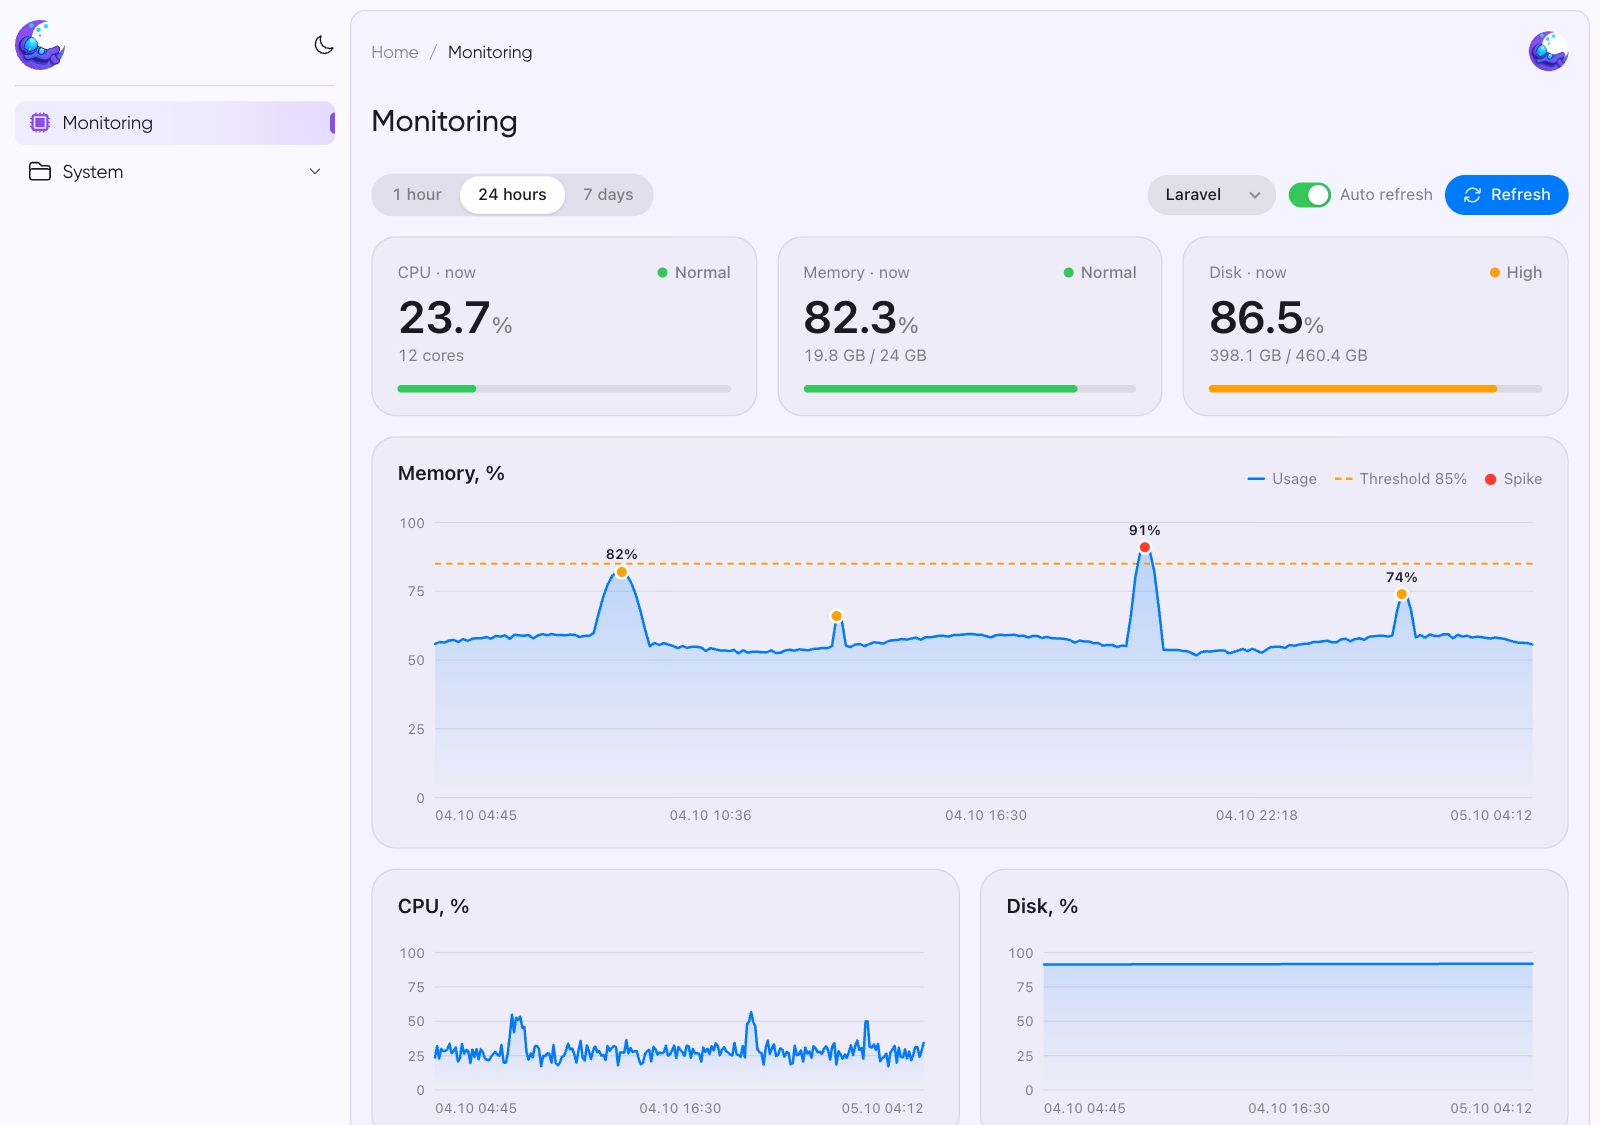
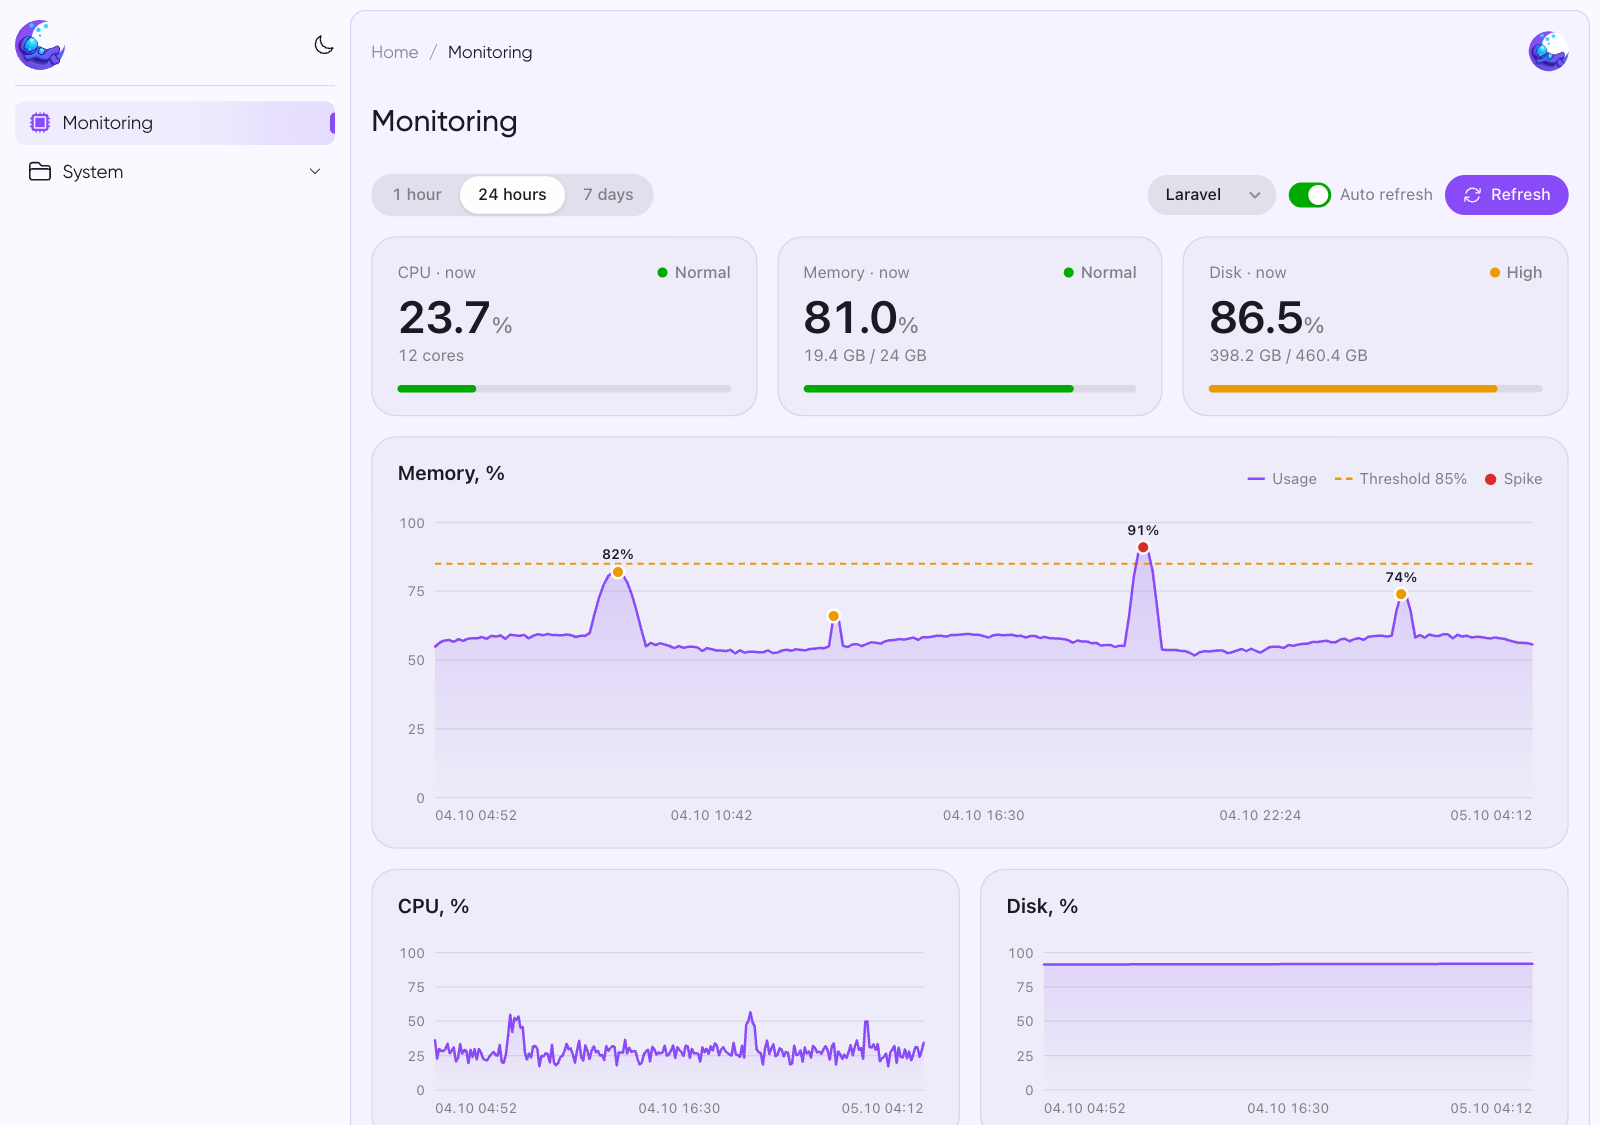
Follow MoonShine theme colors; 1.4.1

diff --git a/resources/views/partials/styles.blade.php b/resources/views/partials/styles.blade.php
@@ -1,7 +1,12 @@
 @once
 <style>
     .msm {
-        --msm-blue: #007aff; --msm-green: #34c759; --msm-orange: #ff9f0a; --msm-red: #ff3b30;
+        /* Цвета берутся из темы MoonShine: 4.x — --ms-cm-*, 3.x — RGB-тройки вида --primary: 120, 67, 233 */
+        --msm-blue: var(--ms-cm-primary, rgb(var(--primary, 0, 122, 255)));
+        --msm-on-blue: var(--ms-cm-primary-text, #fff);
+        --msm-green: var(--ms-cm-success, rgb(var(--success-bg, 52, 199, 89)));
+        --msm-orange: var(--ms-cm-warning, rgb(var(--warning-bg, 255, 159, 10)));
+        --msm-red: var(--ms-cm-error, rgb(var(--error, 255, 59, 48)));
         --msm-muted: rgb(120 120 128 / 0.95); --msm-line: rgb(120 120 128 / 0.18);
         --msm-track: rgb(120 120 128 / 0.16); --msm-card: rgb(120 120 128 / 0.06);
         --msm-tip: rgb(255 255 255 / 0.96); --msm-tip-ink: #1c1c1e;
@@ -9,12 +14,12 @@
         font-family: -apple-system, BlinkMacSystemFont, "SF Pro Text", Inter, system-ui, sans-serif;
         font-variant-numeric: tabular-nums;
     }
-    .dark .msm { --msm-blue: #0a84ff; --msm-green: #30d158; --msm-orange: #ff9f0a; --msm-red: #ff453a; --msm-tip: rgb(44 44 46 / 0.96); --msm-tip-ink: #f2f2f7; }
+    .dark .msm { --msm-tip: rgb(44 44 46 / 0.96); --msm-tip-ink: #f2f2f7; }
     .msm-head { display: flex; flex-wrap: wrap; align-items: center; justify-content: space-between; gap: .75rem; }
     .msm-segmented { display: inline-flex; padding: 2px; border-radius: 999px; background: var(--msm-track); }
     .msm-segmented a { padding: .35rem .9rem; border-radius: 999px; font-size: .8125rem; font-weight: 500; color: var(--msm-muted); transition: background .15s, color .15s; }
     .msm-segmented a[aria-current="page"] { background: var(--msm-tip); color: var(--msm-tip-ink); box-shadow: 0 1px 3px rgb(0 0 0 / .12); }
-    .msm-pill { display: inline-flex; align-items: center; gap: .4rem; padding: .4rem .9rem; border-radius: 999px; font-size: .8125rem; font-weight: 500; background: var(--msm-blue); color: #fff; }
+    .msm-pill { display: inline-flex; align-items: center; gap: .4rem; padding: .4rem .9rem; border-radius: 999px; font-size: .8125rem; font-weight: 500; background: var(--msm-blue); color: var(--msm-on-blue); }
     .msm-pill .icon-wrapper, .msm-pill svg { width: 1rem; height: 1rem; }
     .msm-tiles { display: grid; gap: 1rem; grid-template-columns: repeat(auto-fit, minmax(10.5rem, 1fr)); }
     .msm-card { border-radius: 1.25rem; padding: 1.1rem 1.25rem; background: var(--msm-card); border: 1px solid var(--msm-line); min-width: 0; }

diff --git a/README.md b/README.md
@@ -52,7 +52,7 @@ Moonshine Monitoring is a Laravel package that provides system resource monitori
 - Alerts by email and Telegram when CPU, memory or disk stay above a threshold
 - Dashboard widget for the MoonShine home page
 - Old records are purged automatically
-- Light and dark MoonShine themes
+- Follows the MoonShine theme: light / dark mode and the theme's primary, success, warning and error colors
 - Enhanced dashboard with progress bars and real-time updates
 - Multi-language support (English and Russian)
 

diff --git a/CHANGELOG.md b/CHANGELOG.md
@@ -1,5 +1,10 @@
 # Changelog
 
+## [1.4.1] - 2026-10-05
+
+### Changed
+- Dashboard and widget colors follow the installed MoonShine theme: primary color for charts and buttons, success / warning / error colors for statuses (`--ms-cm-*` on MoonShine 4, `--primary`, `--success-bg`, `--warning-bg`, `--error` on MoonShine 3). The Apple palette is used only when a theme variable is missing.
+
 ## [1.4.0] - 2026-10-05
 
 ### Added
